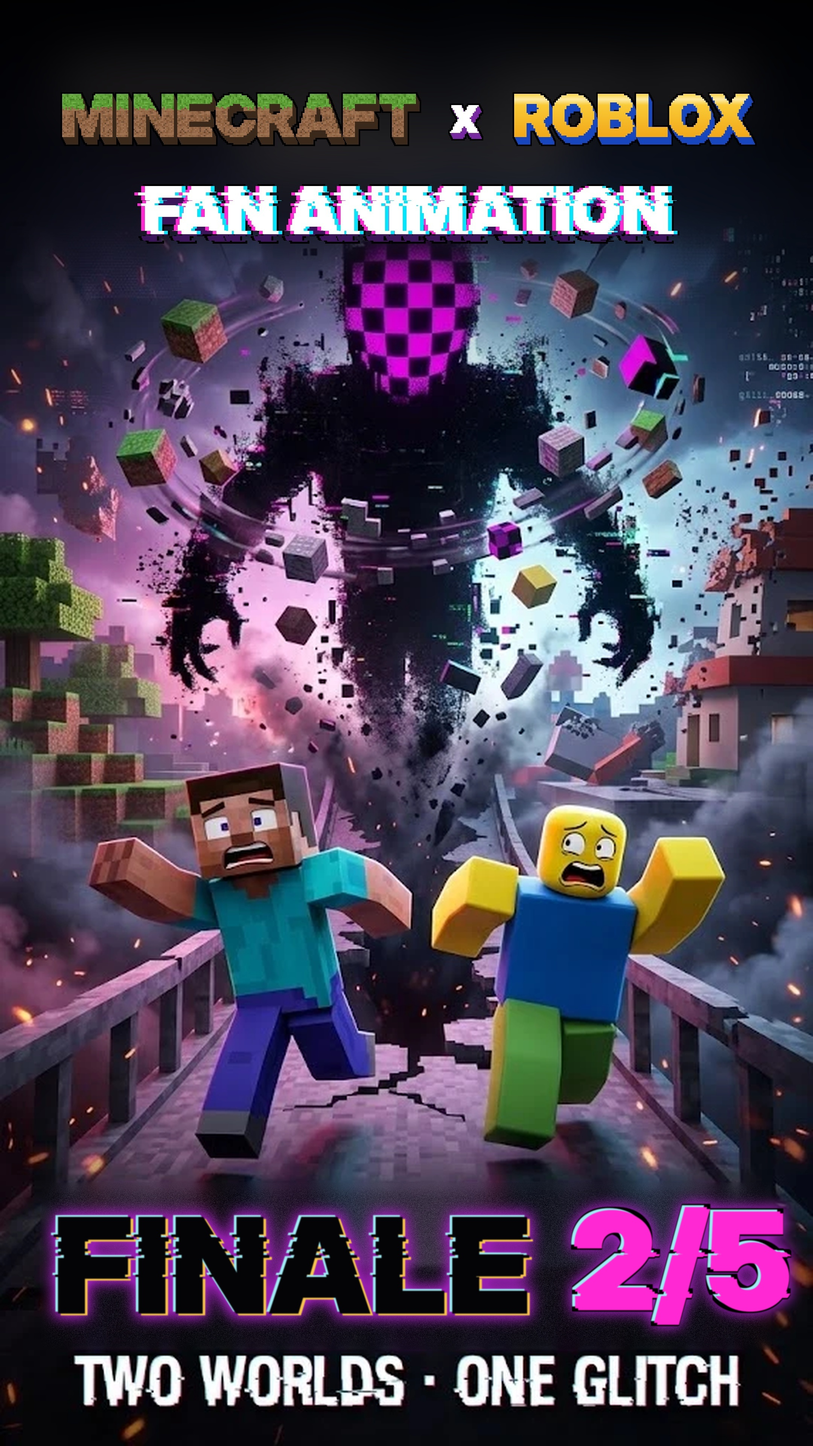
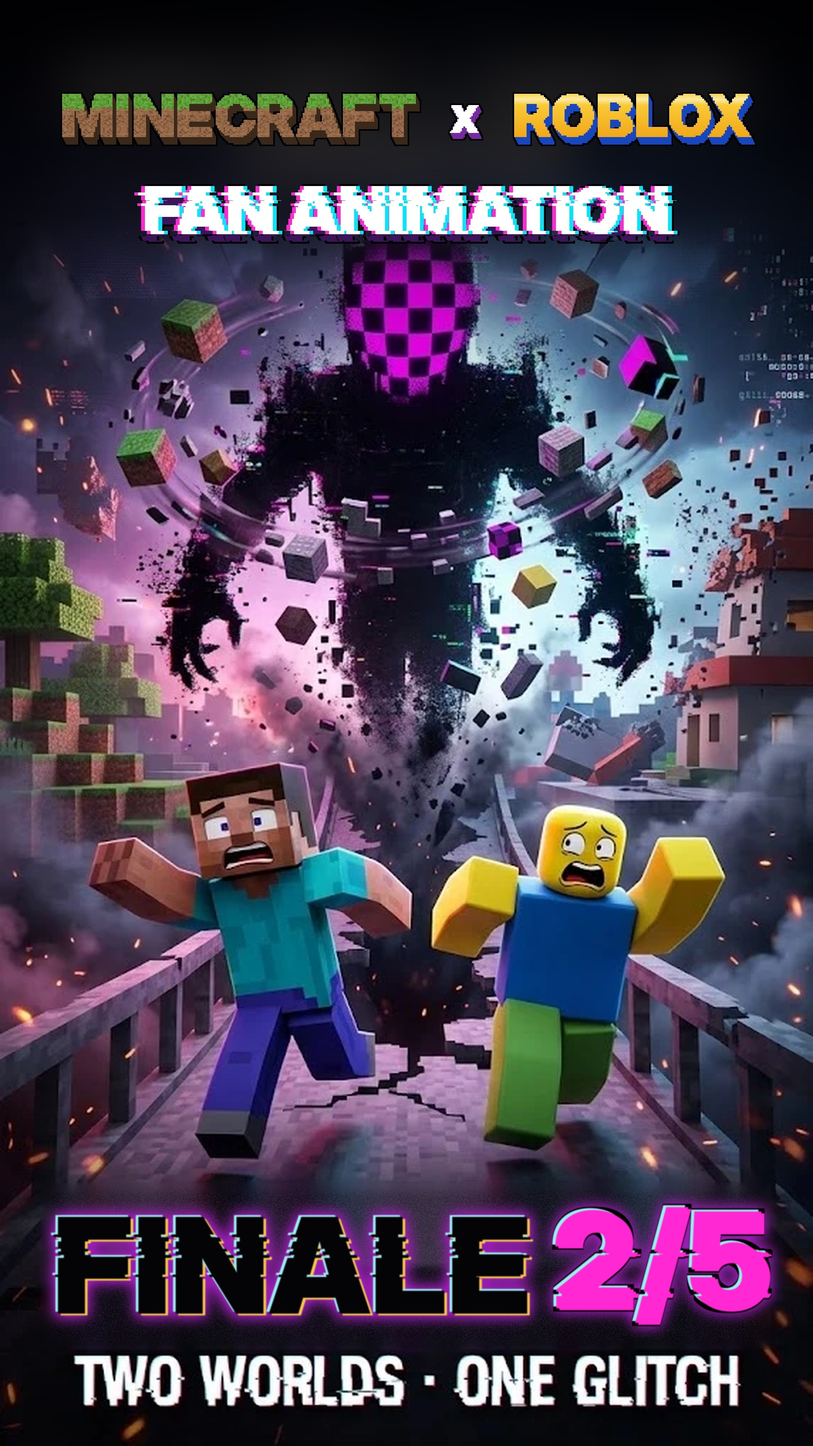
Finale thumbnails: a wider number grows toward FINALE too, so the edge margins stay even (FINALE 2/5)
Claude-Session: https://claude.ai/code/session_01A9tKVCmFSGW3L81Dd85Sv5

Changed region(s): [[0.6514, 0.8125, 0.9926, 0.9375]]

diff --git a/tools/thumb_finale_series.py b/tools/thumb_finale_series.py
@@ -120,7 +120,8 @@ def main():
     layer.paste((255, 40, 210, 255), (0, 0), ImageChops.offset(mm, 8, 5))
     layer.paste((*st["slash"], 255), (0, 0), mm)
     layer = layer.filter(ImageFilter.GaussianBlur(1.2))
-    img.alpha_composite(layer, (x + word.width + gap - pad, y + (word.height - num.height) // 2 - pad))
+    shift = (num.width - ref.width) * 2 // 3          # a wider number grows toward FINALE too, keeping the edge margins
+    img.alpha_composite(layer, (x + word.width + gap - shift - pad, y + (word.height - num.height) // 2 - pad))
     img.convert("RGB").save(a.out, quality=95)
     print("wrote", a.out)
 
